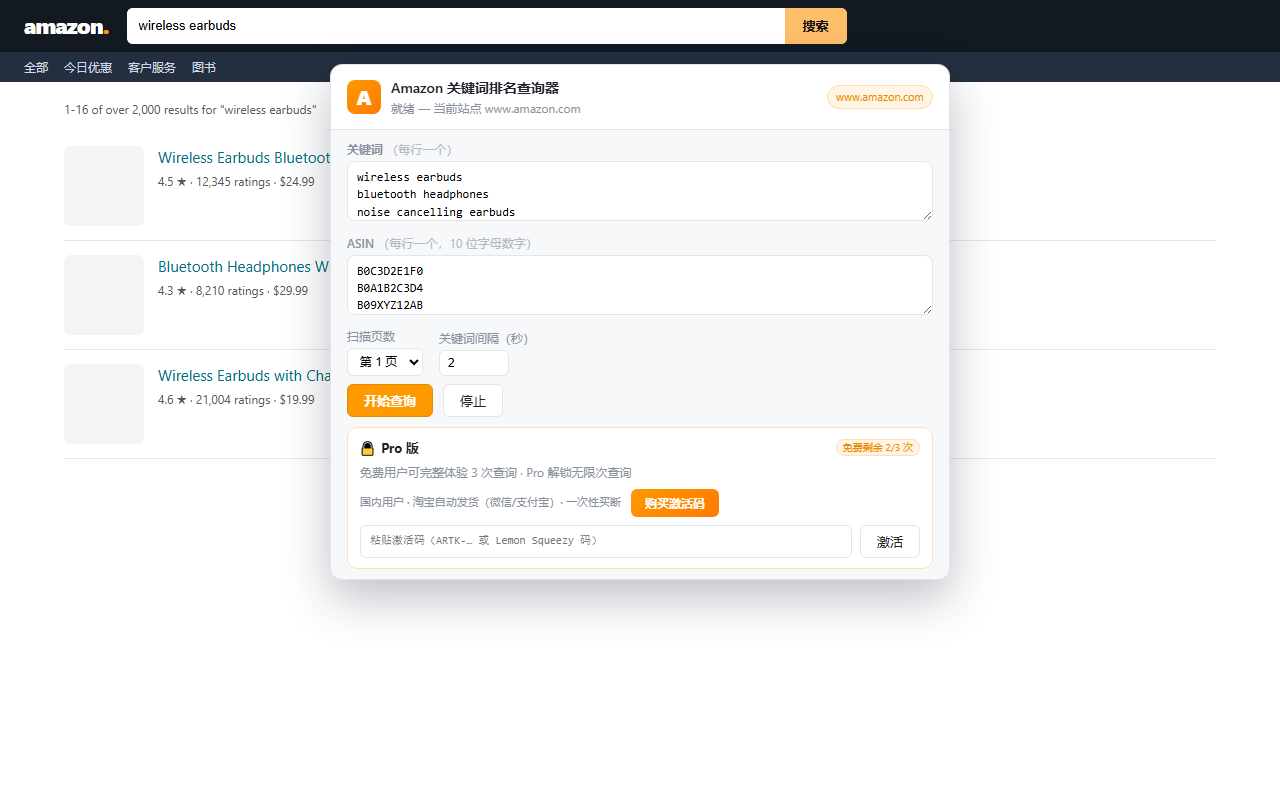
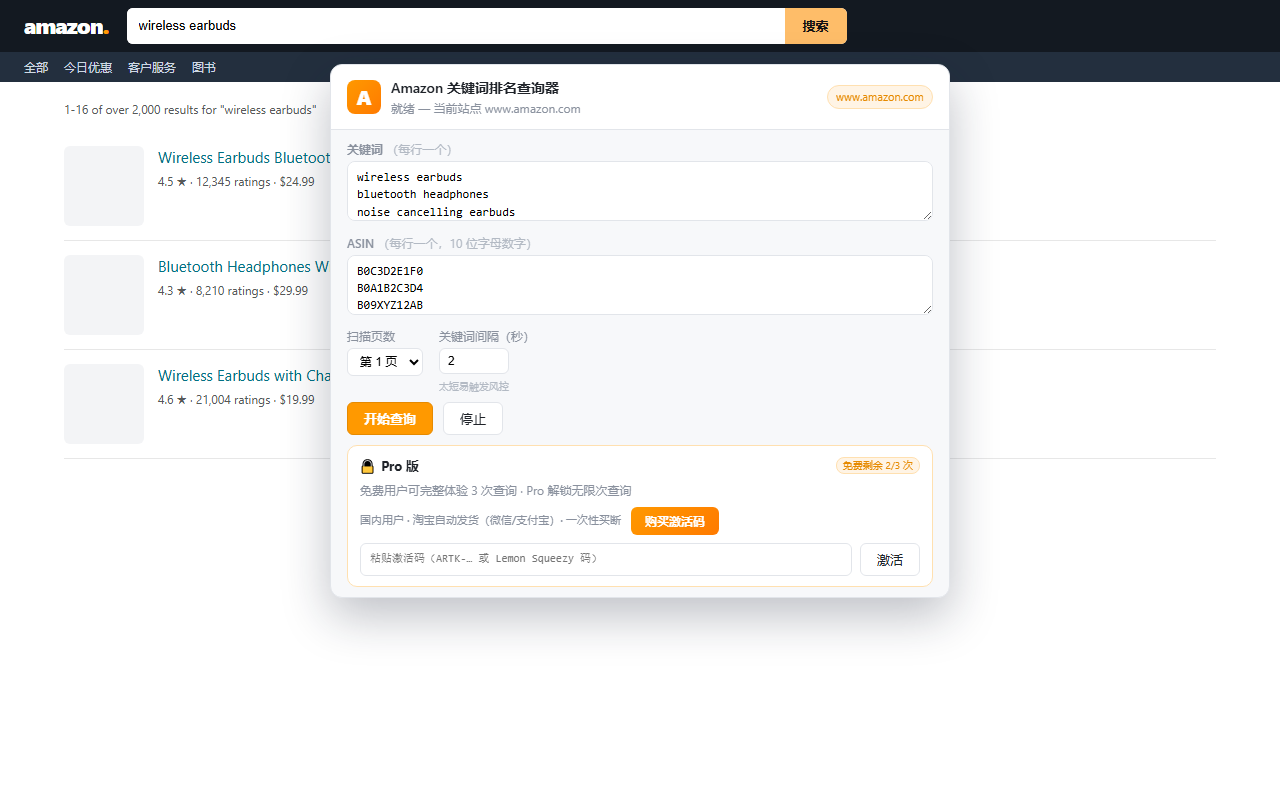
Fix broken alignment between 扫描页数 and 关键词间隔 controls
.options used align-items: flex-end while the delay .opt has an extra hint
line the pages .opt doesn't — bottom-aligning the two columns pushed the
shorter one (the select) down, so it visibly sat lower than the number
input. Switch to align-items: flex-start so both controls share the same
top edge regardless of what trails below either one.

Also fixed the same rule in demo/preview.html and added the hint text it
was missing — that mockup is what I screenshotted to "verify" the layout
last time, and because it omitted the hint line it couldn't have shown
this bug even in principle. Verified this pass against the actual
popup.html/popup.js/popup.css rendered with a chrome.* stub, not the
mockup, then regenerated the demo-based store screenshots too.

Changed region(s): [[0.25, 0.4062, 0.75, 0.75], [0.625, 0.5312, 0.7188, 0.5938]]

diff --git a/demo/preview.html b/demo/preview.html
@@ -82,8 +82,9 @@
     border: 1px solid #e2e5ea; border-radius: 8px;
     font: 12px/1.45 Consolas, "Courier New", monospace; background: #fff;
   }
-  .options { display: flex; gap: 16px; align-items: flex-end; }
+  .options { display: flex; gap: 16px; align-items: flex-start; }
   .opt { display: flex; flex-direction: column; gap: 3px; }
+  .opt .hint { display: block; margin-top: 2px; font-size: 10px; color: #b3bac4; }
   .opt label { font-size: 12px; color: #8a919e; }
   .opt input, .opt select {
     padding: 5px 8px; border: 1px solid #e2e5ea; border-radius: 6px; font-size: 12px; background: #fff;
@@ -192,7 +193,7 @@ B09XYZ12AB</textarea>
     </div>
     <div class="options">
       <div class="opt"><label>扫描页数</label><select><option selected>第 1 页</option><option>前 2 页</option><option>前 3 页</option></select></div>
-      <div class="opt"><label>关键词间隔（秒）</label><input type="number" value="2" style="width:70px"></div>
+      <div class="opt"><label>关键词间隔（秒）</label><input type="number" value="2" style="width:70px"><span class="hint">太短易触发风控</span></div>
     </div>
     <div class="actions">
       <button class="primary" id="btnStart">开始查询</button>

diff --git a/popup/popup.css b/popup/popup.css
@@ -107,7 +107,7 @@ textarea:focus {
   box-shadow: 0 0 0 3px rgba(255, 153, 0, .14);
 }
 
-.options { display: flex; gap: 18px; align-items: flex-end; flex-wrap: wrap; }
+.options { display: flex; gap: 18px; align-items: flex-start; flex-wrap: wrap; }
 .opt { display: flex; flex-direction: column; gap: 4px; }
 .opt label { font-size: 12px; color: var(--muted); }
 .opt input, .opt select {
